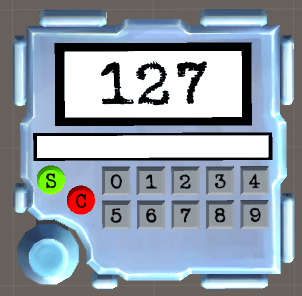
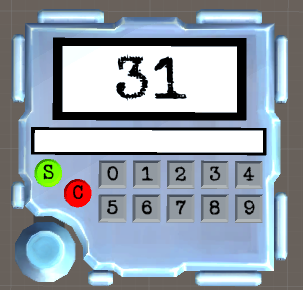
From seven to five
7 letters to 5 letters update

diff --git a/Manual/Binary Morse.html b/Manual/Binary Morse.html
@@ -22,7 +22,7 @@
                 <p class="flavour-text">2162088201073342668528922950942204776213941721527573</p>
 
                 <p>This module consists of two screens, a keypad, a submit button and clear button. The screen cycles an indefinite amount of decimal numbers per second.</p>
-                <p>These sequence of numbers, when converted into seven-digit binary numbers, show a repeated transmission of a morse code letter for each significant digit.</p>
+                <p>These sequence of numbers, when converted into five-digit binary numbers, show a repeated transmission of a morse code letter for each significant digit.</p>
                 <p>A dot is defined as one "1" between zeroes, while a dash is defined as three consecutive "1"s between zeroes. A single "0" between two "1"s is defined as a gap between two parts of a letter, while three consecutive "0"s is defined as a gap between whole letters.</p>
                 <p>Each significant digit would only transmit one letter at a time repeatedly. Determine the letters transmitted by each significant digit of the binary, then convert them into morse code.</p>
                 <p>From left to right, convert a dot to one "1", a dash to three consecutive "1"s, a space between two parts in a letter to one "0", and a space between two whole letters to three consecutive "0"s.</p>

diff --git a/Assets/BinaryMorseScript.cs b/Assets/BinaryMorseScript.cs
@@ -18,8 +18,8 @@ public class BinaryMorseScript : MonoBehaviour
 
     private string[] morseAlphabet = { "10111000", "111010101000", "11101011101000", "1110101000", "1000", "101011101000", "111011101000", "1010101000", "101000", "1011101110111000", "111010111000", "101110101000", "1110111000", "11101000", "11101110111000", "10111011101000", "1110111010111000", "1011101000", "10101000", "111000", "1010111000", "101010111000", "101110111000", "11101010111000", "1110101110111000", "11101110101000" };
     private string alphabet = "ABCDEFGHIJKLMNOPQRSTUVWXYZ";
-    private int[] selectedLettersIndex = new int[7];
-    private int[] index = new int[7];
+    private int[] selectedLettersIndex = new int[5];
+    private int[] index = new int[5];
     private string currentInput;
     private int finalAnswer;
 
